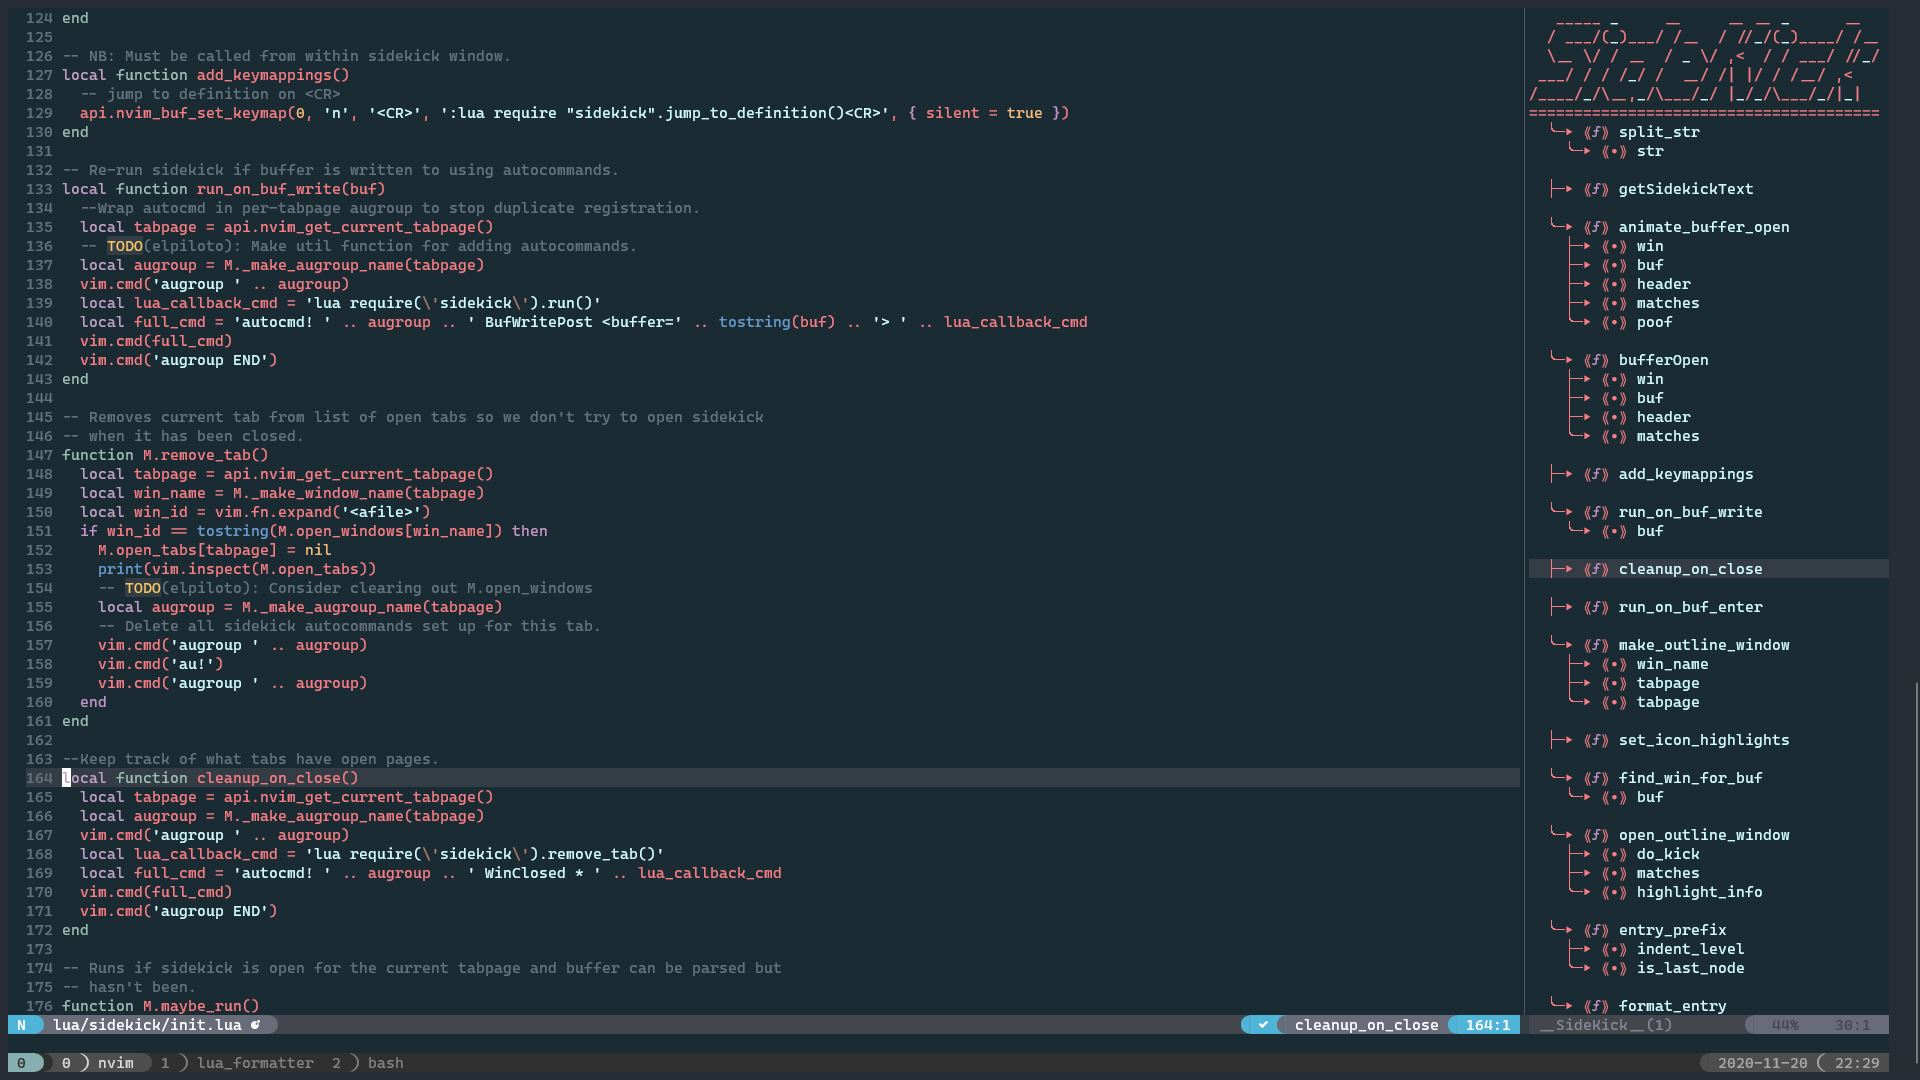
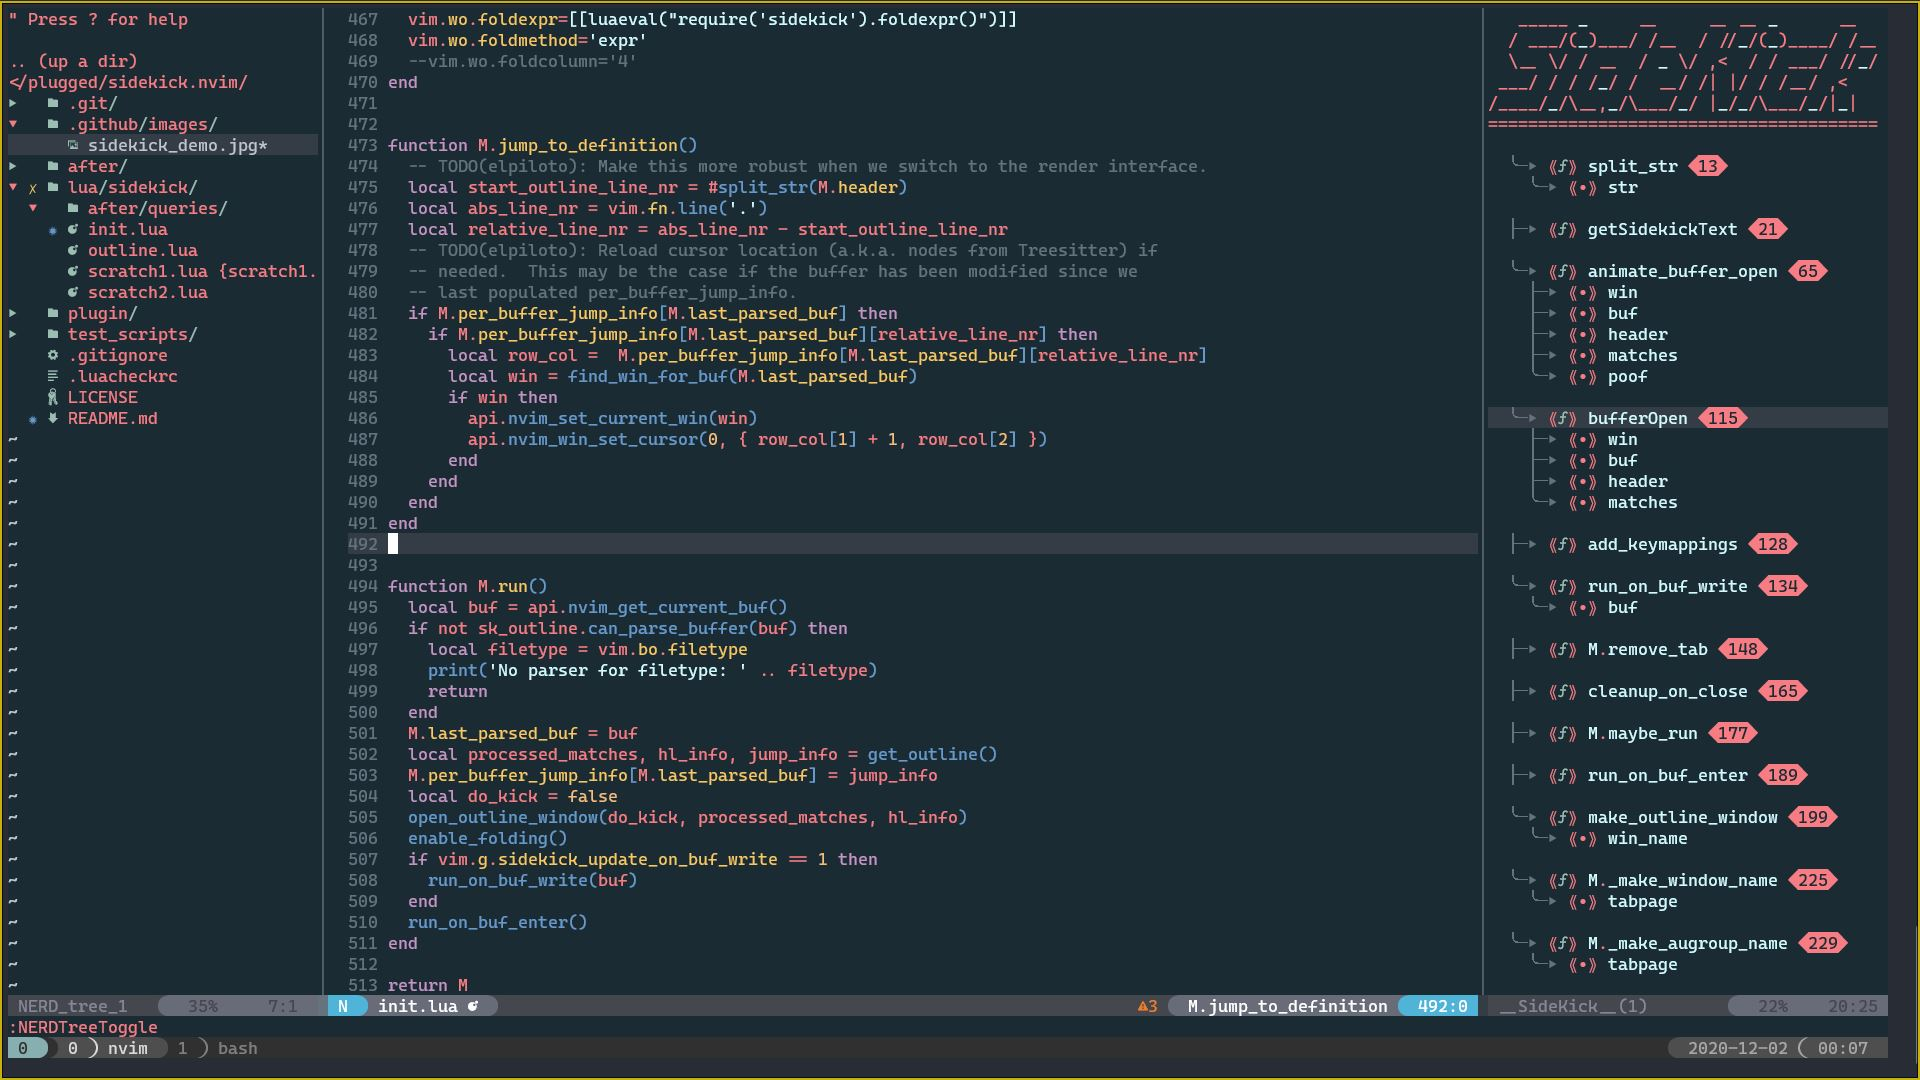
Display line numbers after some definitions.
This is configurable in vimrc.

Changed region(s): [[0.0, 0.0, 1.0, 1.0]]

diff --git a/README.md b/README.md
@@ -36,6 +36,9 @@ It requires neovim (~nightly build) and `nvim-treesitter`.
 - [ ] Document highlight groups so that colorschemes can explicitly support them.
 - [ ] Learn how to make tests for your plugin and test your code, guy.
 - [X] Use treesitter to generate outline for custom queries (~~`queries/$LANG/sidekick.scm`~~ `queries/$LANG/locals.scm`)
+- [X] Use treesitter to generate outline for "standard" queries (`queries/$LANG/locals.scm`)
+- [ ] Let users specify what definitions get shown for standard queries.   
+- [X] Display line number after definitions in outline window.
 
 ### BUGS
 
@@ -46,12 +49,10 @@ It requires neovim (~nightly build) and `nvim-treesitter`.
 
 ### Roadmap
 
-- [ ] Use treesitter to generate outline for "standard" queries (`queries/$LANG/locals.scm`)
 - [ ] Sort by order or kind.  
 - [ ] Generate outline based on LSP.  
 - [ ] Pop-up documentation for symbol when using LSP.  
 - [ ] After getting experience, re-write most of codebase using an extensible system to allow end users to populate outline window.
-- [ ] Let users specify what definitions get shown for standard queries.   
 
 
 ### Maybe features  
